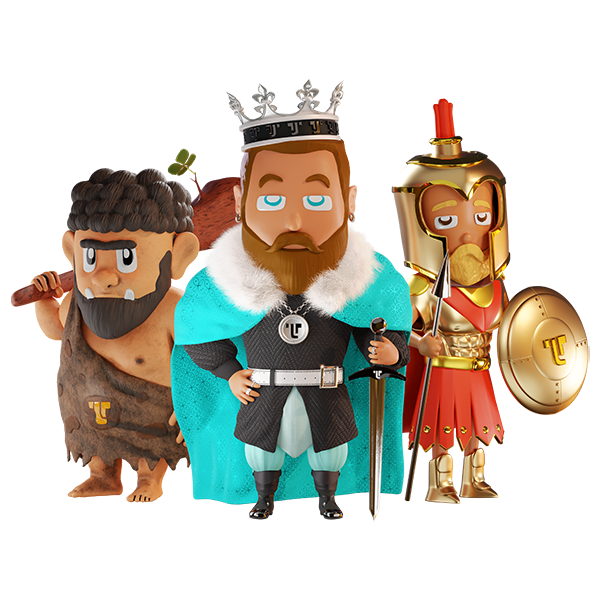
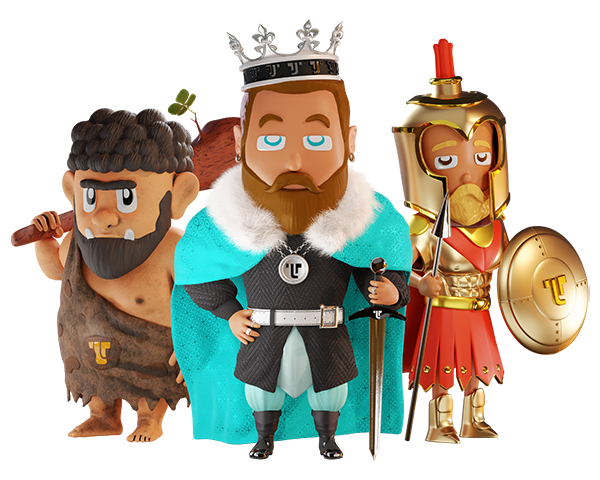
Fixed the Main Section
Fixed the height and width of the Kings Image, the text position and the Social logos position for iOS

diff --git a/src/components/LandingV2-Components/Sections/Main/Main.module.css b/src/components/LandingV2-Components/Sections/Main/Main.module.css
@@ -129,10 +129,11 @@
 }
 
 /* IMAGES CONTAINER */
-.Container > .Images {
+.Images {
 	display: inline-block;
 	align-items: center;
 	text-align: center;
+	margin-top: 25px;
 }
 
 .Social {
@@ -207,7 +208,7 @@
 		padding: 100px 0px 0px 0px;
 	}
 	.Subcontainer {
-		max-width: 900px;
+		max-width: 1050px;
 		margin-left: auto;
 		margin-right: auto;
 	}

diff --git a/src/components/LandingV2-Components/Sections/Main/Main.js b/src/components/LandingV2-Components/Sections/Main/Main.js
@@ -49,7 +49,7 @@ const MainSection = ({ id }) => {
 						</div>
 						<p>on the Metaverse</p>
 					</div>
-					<p className={styles.Text} style={{ marginTop: '15px' }}>
+					<p className={styles.Text} style={{ marginTop: '40px', marginBottom: '8px' }}>
 						We launch NFTs <br />
 						We build the future
 					</p>
